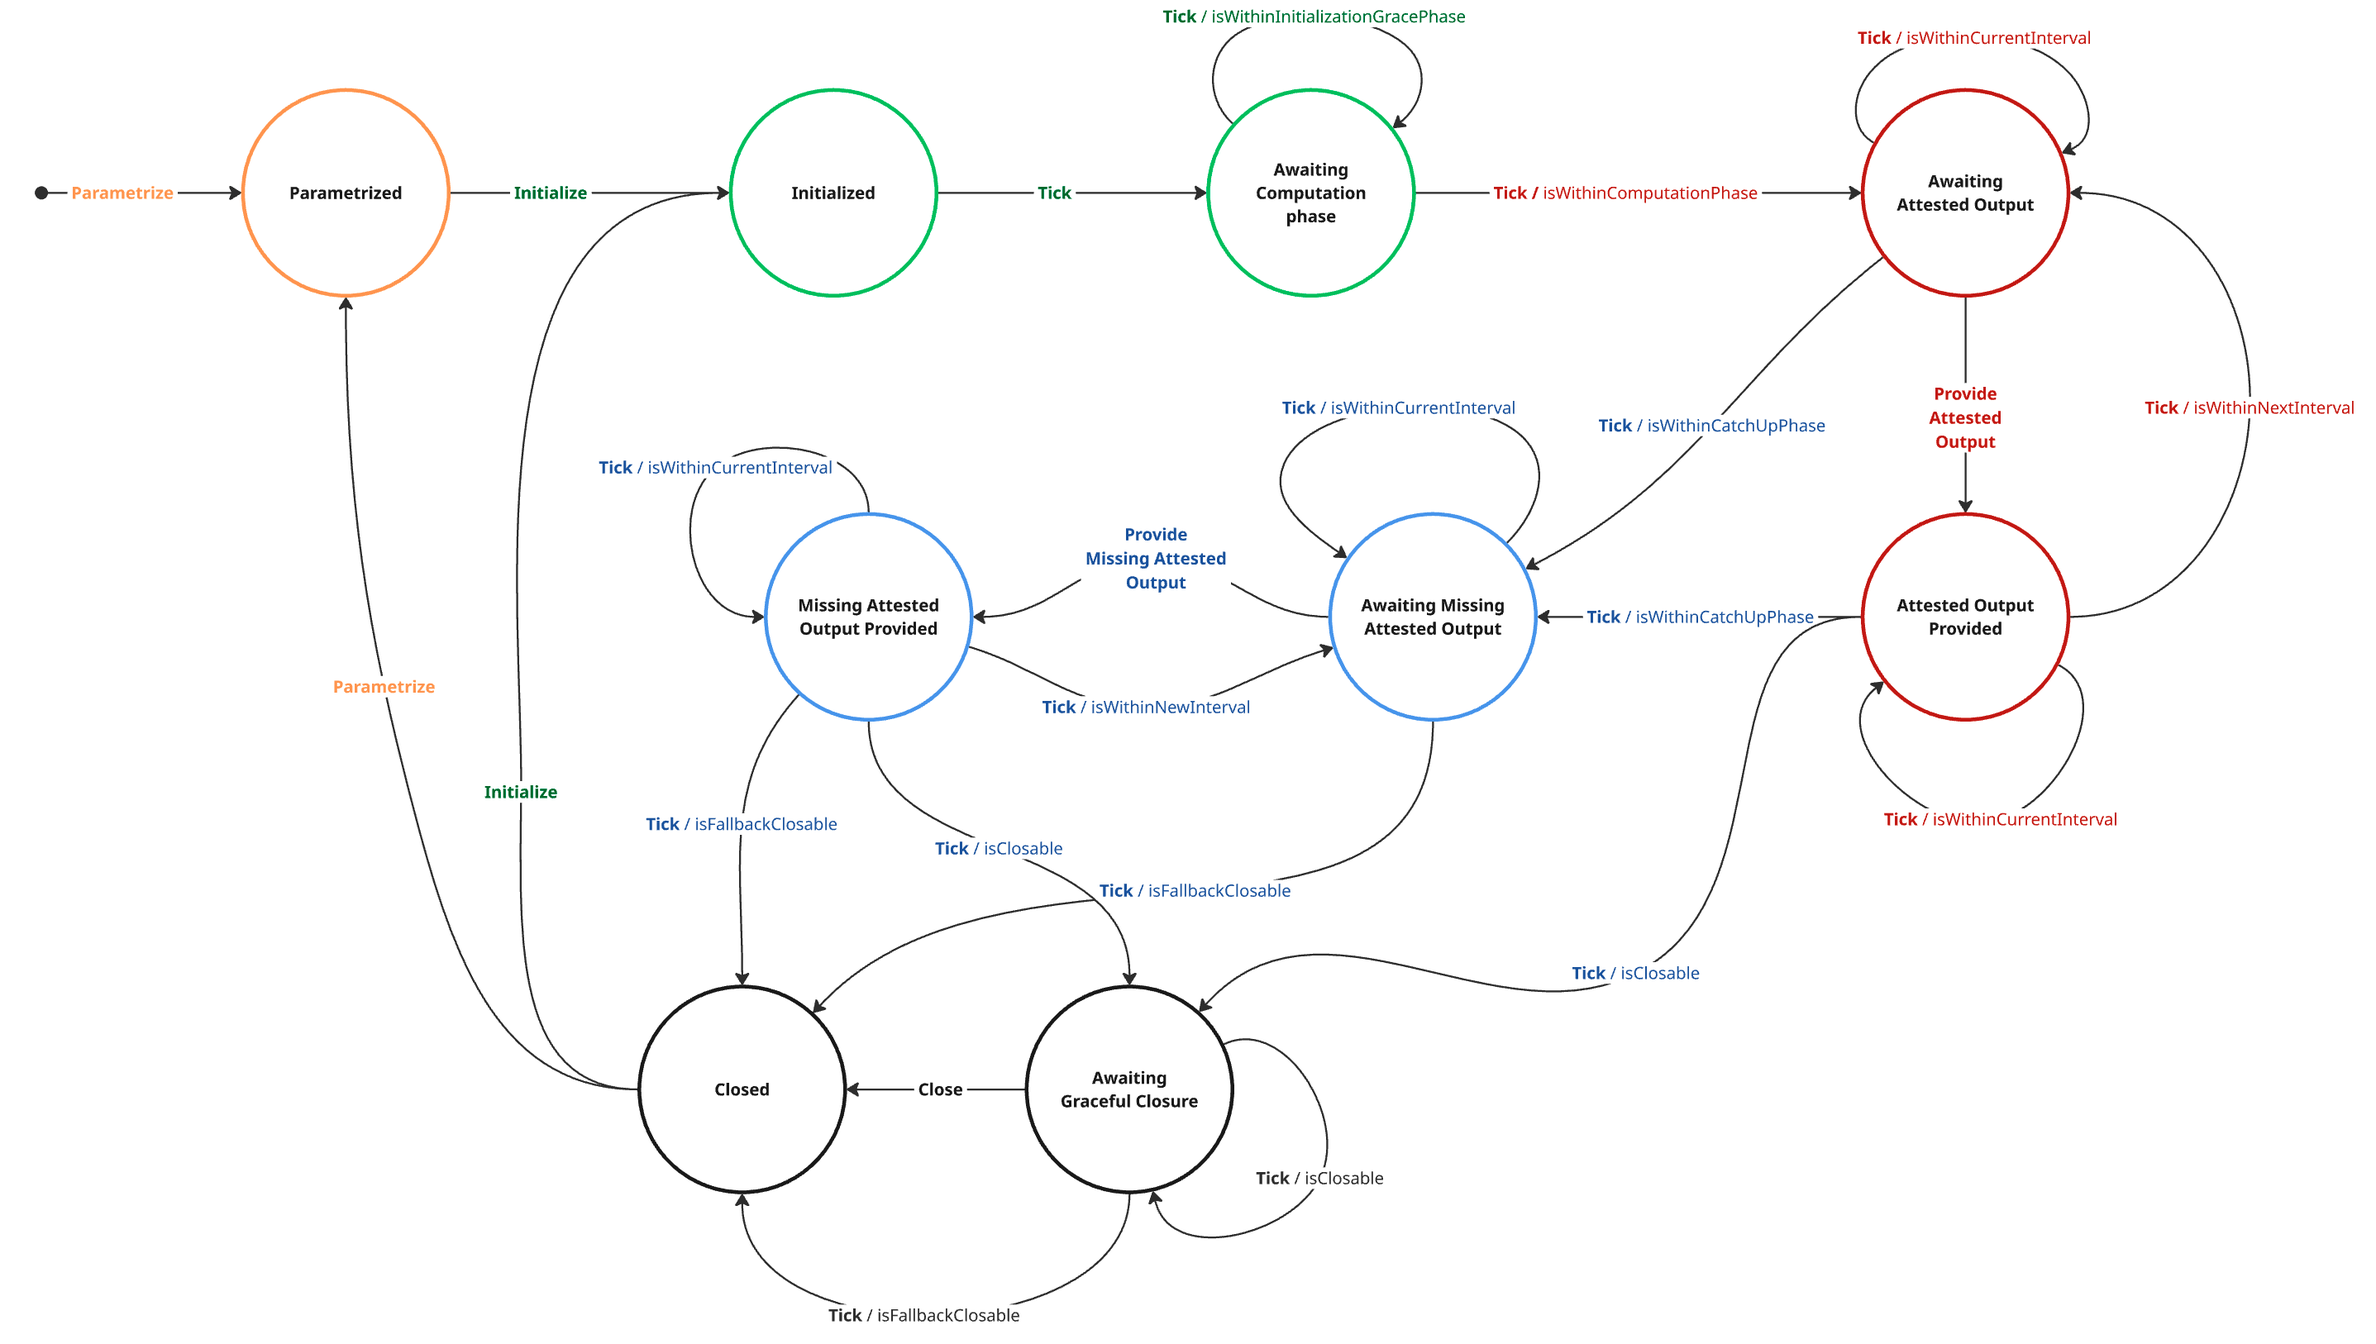
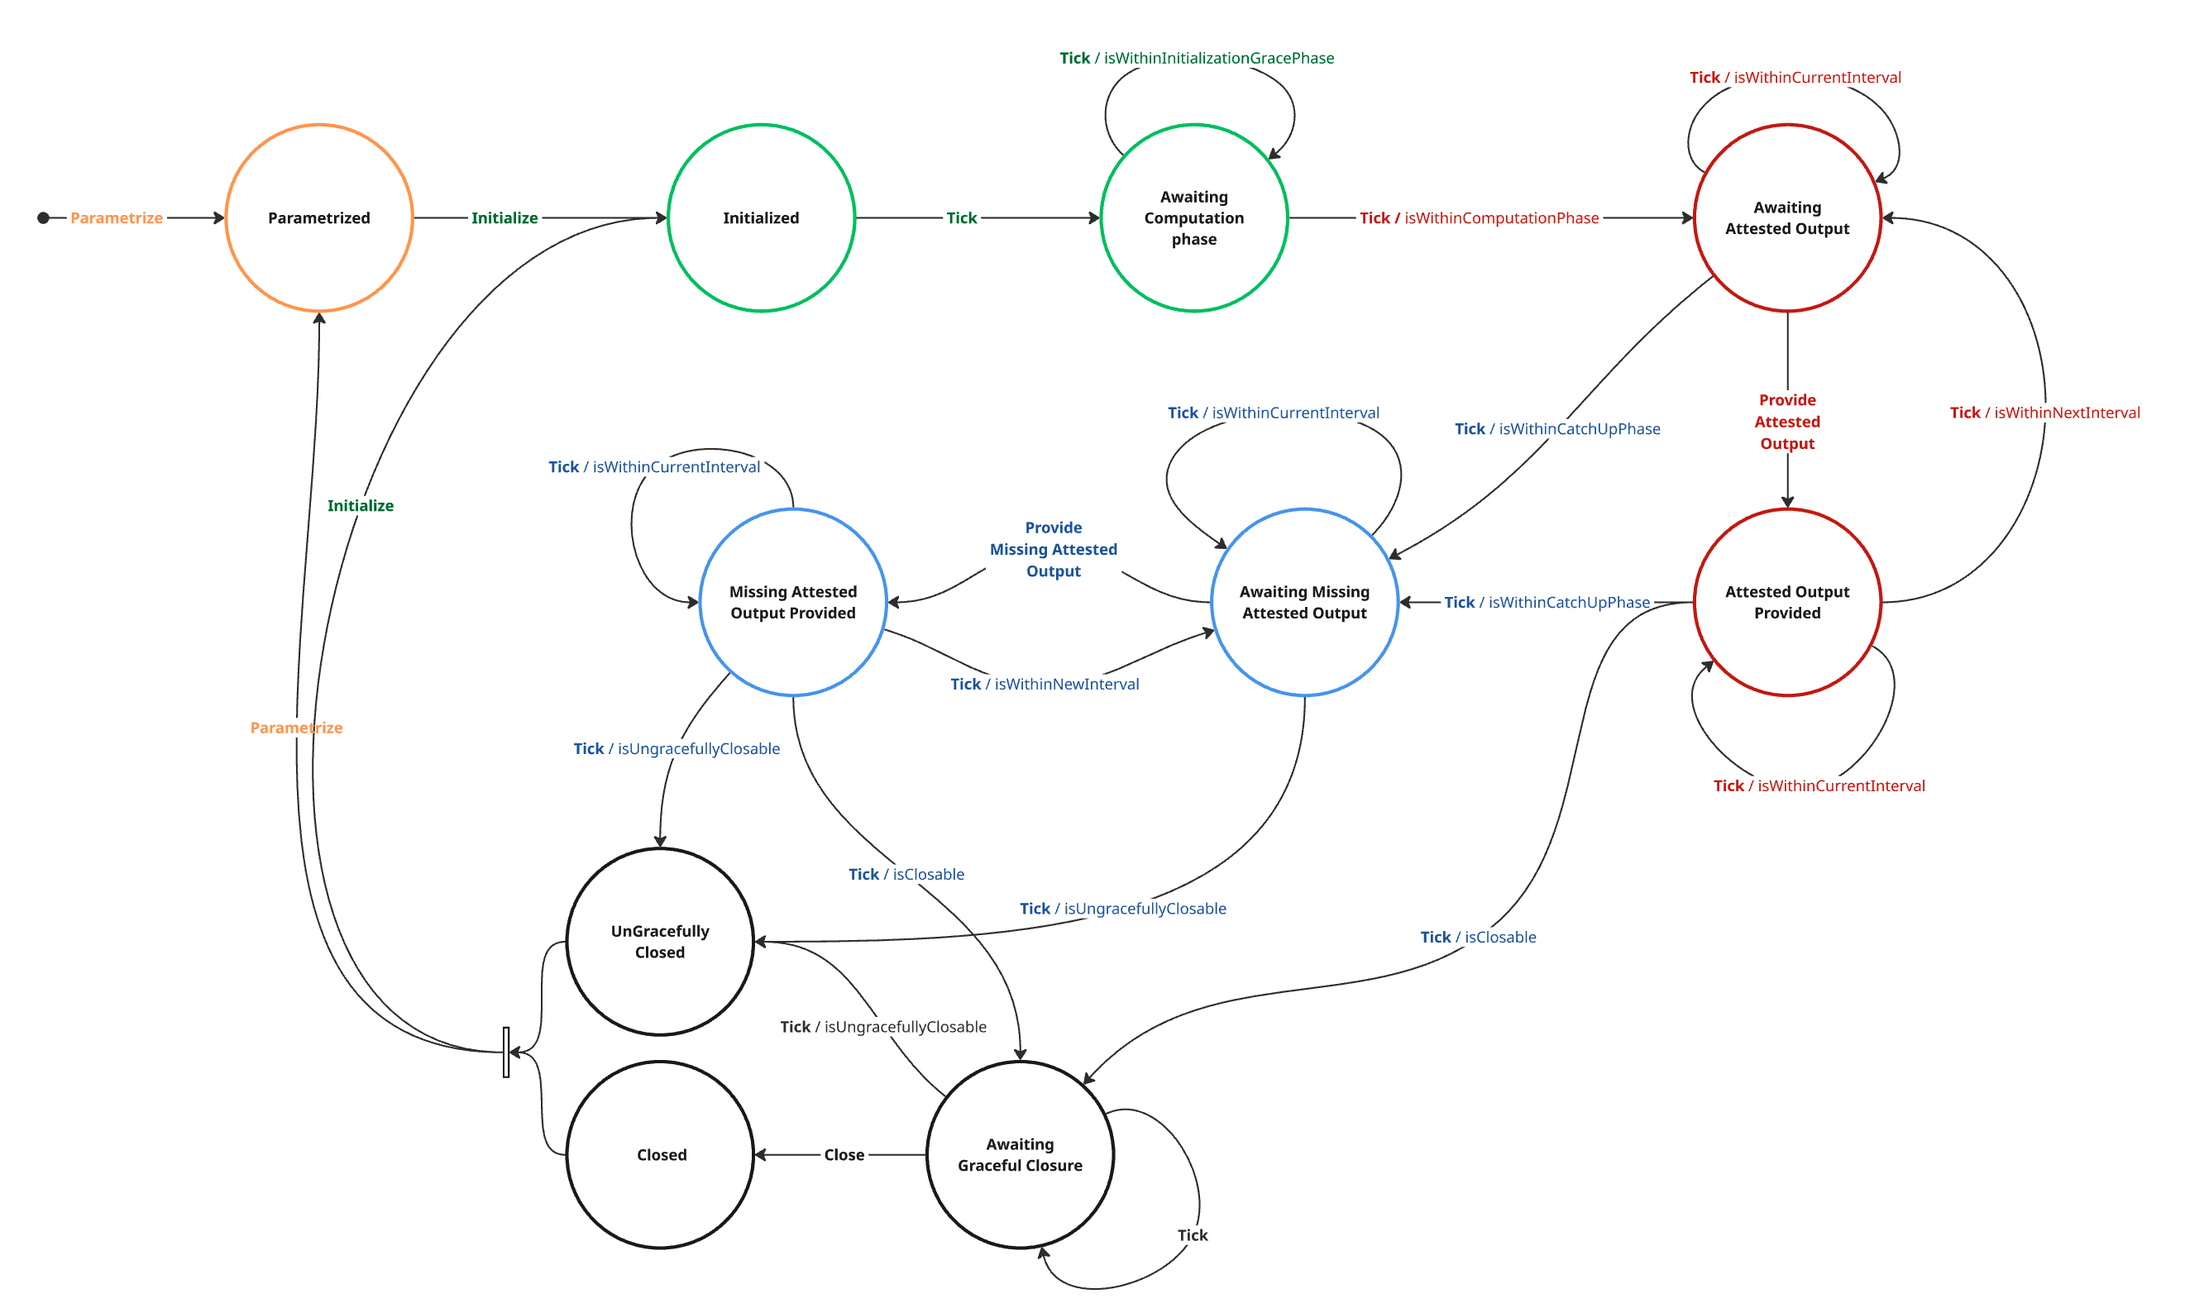
Ungraceful state section

diff --git a/CIP/Readme.md b/CIP/Readme.md
@@ -725,16 +725,16 @@ Once a missing attested output has been provided, the next slot may trigger a `t
 | `tick`               | $`\Phi.\text{Stream.State} \leftarrow \Phi.\text{tick}(\text{missingAttestedOutputProvidedState})`$ |
 |----------------------|---------------------------------------------------------------------------------------------------|
 | **Input Parameters** | <ul><li>$`\text{missingAttestedOutputProvidedState} \in \texttt{MissingAttestedOutputProvided}`$ — The current state after an attestation has been successfully provided.</li></ul> |
-| **Returned State**   | $`\begin{cases} \text{When } \texttt{isWithinCurrentInterval} &: \texttt{MissingAttestedOutputProvided} \{ \dots,\ \text{currentSlot++} \} \\\\ \text{When } \texttt{isWithinNextInterval} &: \texttt{AwaitingMissingAttestedOutput} \{ \dots,\ \text{currentSlot++} \} \\\\ \text{When } \texttt{isClosable} &: \texttt{AwaitingGracefulClosure} \{ \dots,\ \text{currentSlot++} \} \\\\ \text{When } \texttt{isFallbackClosable} &: {forceClose}(missingAttestedOutputProvidedState) \} \end{cases}`$ |
+| **Returned State**   | $`\begin{cases} \text{When } \texttt{isWithinCurrentInterval} &: \texttt{MissingAttestedOutputProvided} \{ \dots,\ \text{currentSlot++} \} \\\\ \text{When } \texttt{isWithinNextInterval} &: \texttt{AwaitingMissingAttestedOutput} \{ \dots,\ \text{currentSlot++} \} \\\\ \text{When } \texttt{isClosable} &: \texttt{AwaitingGracefulClosure} \{ \dots,\ \text{currentSlot++} \} \\\\ \text{When } \texttt{isUngracefullyClosable} &: \texttt{UngracefullyClosed} \{.., {pre-}\eta_e = {initialized.}{pre-}\eta_e \} \} \end{cases}`$ |
 
 Alternatively, when still waiting for an attestation and no block was produced, a `tick` may trigger a transition based on the current time. This command applies to the `AwaitingMissingAttestedOutput` state before any attestation has been submitted :
 
 | `tick`               | $`\Phi.\text{Stream.State} \leftarrow \Phi.\text{tick}(\text{awaitingMissingAttestedOutputState})`$ |
 |--------------------|---------------------------------------------------------------------------------------------------|
 | **Input Parameters** | <ul><li>$`\text{awaitingMissingAttestedOutputState} \in \texttt{AwaitingMissingAttestedOutput}`$ — Current state awaiting an attested output $`\phi_i`$ for interval $`i`$.</li><li>$`\phi_i = (y_i, \pi_i)`$ — Attested output and corresponding proof.</li></ul> |
-| **Returned State**   | $` \begin{cases} \text{When } \texttt{isWithinCurrentInterval} :\ \texttt{AwaitingMissingAttestedOutput}\ \{ \text{..} ,\ \text{currentSlot++} \} \\\\ \text{When } \texttt{isClosable} :\ \texttt{AwaitingGracefulClosure}\ \{ \text{..} ,\ \text{currentSlot++} \} \\\\ \text{When } \texttt{isFallbackClosable} :\ {forceClose}(awaitingMissingAttestedOutputState) \}\end{cases}`$ |
+| **Returned State**   | $` \begin{cases} \text{When } \texttt{isWithinCurrentInterval} :\ \texttt{AwaitingMissingAttestedOutput}\ \{ \text{..} ,\ \text{currentSlot++} \} \\\\ \text{When } \texttt{isClosable} :\ \texttt{AwaitingGracefulClosure}\ \{ \text{..} ,\ \text{currentSlot++} \} \\\\ \text{When } \texttt{isUngracefullyClosable} :\ \texttt{UngracefullyClosed} \{.., {pre-}\eta_e = {initialized.}{pre-}\eta_e \} \}\end{cases}`$ |
 
-`isFallbackClosable` indicates that the end of the lifecycle segment has been reached (i.e., `currentSlot++ == 0`) while some attested outputs are still missing. This condition triggers the `forceClose` process.
+`isUngracefullyClosable` indicates that the end of the lifecycle segment has been reached (i.e., `currentSlot++ == 0`), while some attested outputs are still missing. When this condition holds, the lifecycle is forcefully closed in an ungraceful manner.
 
 
 #### 3.2.6 ⬛ *Closure Phase*
@@ -750,7 +750,7 @@ In these cases, all attested outputs have been provided by the end of the catch-
 **Failure Scenario:**
 
 This occurs when the lifecycle segment reaches its end (i.e., the full $10 \cdot \frac{k}{f}$ slots), and despite the entire duration of the catch-up mechanism (up to interval 120), either some required attested outputs remain missing, or all outputs have been delivered but the final aggregation has not occurred.
-This scenario represents an extremely rare event—statistically far beyond 128-bit confidence—and reflects a severe disruption in which no blocks have been produced for over 36 hours. These edge cases are represented in the diagram by the transition `Tick / isFallbackClosable`.
+This scenario represents an extremely rare event—statistically far beyond 128-bit confidence—and reflects a severe disruption in which no blocks have been produced for over 36 hours. These edge cases are represented in the diagram by the transition `Tick / isUngracefullyClosable`.
 
 ##### 3.2.6.1. The States 
 
@@ -768,7 +768,7 @@ In this phase, we define two states:
 \right\}
 ```
 
-- `Closed`: This is the final state in the stream lifecycle. It signifies that the aggregated output has been computed and verified, and the final epoch randomness \$`\eta_e`\$ has been successfully derived—achieving the core objective of the protocol. This state is reached in response to either a `Close` command or a `Tick` / `isFallbackClosable` trigger :
+- `Closed`: This is a final state in the stream lifecycle. It signifies that the aggregated output has been computed and verified, and the final epoch randomness \$`\eta_e`\$ has been successfully derived—achieving the core objective of the protocol. This state is reached in response to either a `Close` command :
 
 ```math
 \Phi.\text{Stream.State} \in \texttt{Closed} : \left\{
@@ -777,6 +777,18 @@ In this phase, we define two states:
     &\text{attestedOutputs}  &&\in\ \left[(y, \pi)\right]^{82}, \\
     &\text{aggregatedOutput} &&\in\ (x, y, \pi), \\
     &\eta_e                  &&\in\ \{0,1\}^{256} 
+  \end{aligned}
+\right\}
+```
+
+- `UngracefullyClosed`: This is a terminal state in the stream lifecycle. It indicates that either not all expected attested outputs were provided, or the aggregated output could not be computed. As a result, $`{pre-}\eta_e`$ is returned as the final value of $`\eta_e`$. Statistically, this state is highly unlikely to occur, but it is explicitly handled for completeness and structural consistency of the state machine. The transition to this state is triggered by `Tick` in combination with the `isUngracefullyClosable` condition.
+
+```math
+\Phi.\text{Stream.State} \in \texttt{UngracefullyClosed} : \left\{
+  \begin{aligned}
+    &\text{initialized}      &&\in\ \texttt{Initialized}, \\
+    &\text{attestedOutputs} &&\in\ \left[\texttt{Maybe}\ (y, \pi)\right]^{82} \\
+    &{pre-}\eta_e                  &&\in\ \{0,1\}^{256} 
   \end{aligned}
 \right\}
 ```
@@ -803,28 +815,24 @@ These values complete the stream and trigger the transition to the `Closed` stat
 
 The `tick` command handles time progression within the `AwaitingGracefulClosure` state:
 
--  **`isFallbackClosable`** is true when the stream reaches the end of its lifecycle segment (i.e., $`\texttt{currentSlot} + 1 \equiv 0 \pmod{T}`$), and some attested outputs are still missing. In this case, the system triggers a `forceClose`.
+-  **`isUngracefullyClosable`** is true when the stream reaches the end of its lifecycle segment (i.e., \$`\texttt{currentSlot} + 1 \equiv 0 \pmod{T}`\$) and some attested outputs are still missing. When this condition holds, the system transitions to the `UngracefullyClosed` state.
+
 -  **Otherwise**, the command simply increments the `currentSlot` field to reflect time advancement.
 
 
 | `tick`               | $`\Phi.\text{Stream.State} \leftarrow \Phi.\text{tick}(\text{awaitingGracefulClosureState})`$ |
 |--------------------|---------------------------------------------------------------------------------------------------|
 | **Input Parameters** | <ul><li>$`\text{awaitingGracefulClosureState} \in \texttt{AwaitingMissingAttestedOutput}`$ — State indicating readiness for closure.</li></ul> |
-| **Returned State**   | $`\begin{cases} \text{When } \texttt{isFallbackClosable} :\ \texttt{forceClose}(\text{awaitingGracefulClosureState}) \\\\ \text{Otherwise} :\ \texttt{AwaitingGracefulClosure} \{\, \ldots,\, \texttt{currentSlot} + 1 \,\} \end{cases}`$ |
+| **Returned State**   | $`\begin{cases} \text{When } \texttt{isUngracefullyClosable} :\ \texttt{UngracefullyClosed} \{.., {pre-}\eta_e = {initialized.}{pre-}\eta_e \} \\\\ \text{Otherwise} :\ \texttt{AwaitingGracefulClosure} \{\, \ldots,\, \texttt{currentSlot} + 1 \,\} \end{cases}`$ |
 
-`isFallbackClosable` indicates that the end of the lifecycle segment has been reached (i.e., `currentSlot++ == 0`) while some attested outputs are still missing. This condition triggers the `forceClose` process. Otherwise we are just update the current slot field
+`isUngracefullyClosable` indicates that the end of the lifecycle segment has been reached (i.e., `currentSlot++ == 0`), while some attested outputs are still missing. When this condition holds, the lifecycle is forcefully closed in an ungraceful manner. Otherwise we are just update the current slot field
 
-##### 3.2.6.4. The Failure Scenario : The Force Close Process 
+##### 3.2.6.4. The Failure Scenario: Ungraceful Closure
 
+If the protocol reaches the end of its lifecycle, or it becomes evident that too many consecutive blockless intervals have occurred—such that a valid $`\eta_e`$ can no longer be derived—the `Tick` signal triggers the `isUngracefullyClosable` condition. This causes a transition to the terminal state `UngracefullyClosed`, in which the precomputed value $`{pre-}\eta_e`$ is adopted as the official $`\eta_e`$.
 
-**TODO: Handling $`\eta_e`$ in Statistically Impossible Scenarios**
+While this state is statistically unexpected, it is explicitly defined to ensure completeness and structural consistency within the state machine.
 
-How should we ensure the production of $`\eta_e`$ even in edge cases where the expected number of attested outputs cannot be reached due to failure?
-
-A simple fallback is to set $`\eta_e = \text{pre-}\eta_e`$.
-Alternatively, the system could locally compute all missing attested outputs. This approach introduces latency in the state machine but guarantees progress and correctness.
-
-This topic requires further discussion in an upcoming meeting.
 
 ### 4. Agda Mechanization
 
@@ -1131,7 +1139,6 @@ The **graph below** presents the **logarithmic cost** (in **USD**) of executing 
 </div>
 
 ✏ **Note**: The Python script used to generate this graph is available here ➡ [**scenario\_cost\_praos\_vs\_phalanx.py**](./graph/scenario_cost_praos_vs_phalanx.py)
-
 
 ###### **Interpretation of the Graph**
 
@@ -1564,6 +1571,7 @@ To fulfill the above criteria, the following steps are planned:
 
 ## References
 
+- [Ouroboros Randomness Generation Sub-Protocol – The Coin-Flipping Problem](../CPS/CPD/README.md)
 - [Cardano Disaster Recovery Plan](https://iohk.io/en/research/library/papers/cardano-disaster-recovery-plan)
 - [Baigneres, Thomas, et al. "Trap Me If You Can--Million Dollar Curve." Cryptology ePrint Archive (2015).](https://eprint.iacr.org/2015/1249.pdf)
 - [Lenstra, Arjen K., et al. "The number field sieve." Proceedings of the twenty-second annual ACM symposium on Theory of computing. 1990.](https://dl.acm.org/doi/pdf/10.1145/100216.100295)
@@ -1607,7 +1615,7 @@ To fulfill the above criteria, the following steps are planned:
 <!-- The CIP must be explicitly licensed under acceptable copyright terms.  Uncomment the one you wish to use (delete the other one) and ensure it matches the License field in the header: -->
 Todo
 <!-- This CIP is licensed under [CC-BY-4.0](https://creativecommons.org/licenses/by/4.0/legalcode). -->
-<!-- This CIP is licensed under [Apache-2.0](http://www.apache.org/licenses/LICENSE-2.0). -->
+This CIP is licensed under [Apache-2.0](http://www.apache.org/licenses/LICENSE-2.0).
 
 
 
@@ -1617,14 +1625,6 @@ Todo
 Below is under progress 
 -------
 
-
-3. Feasible values for Phalanx protocol parameters 
-    3.1. Protocol Parameters
-    3.2. Recommended Crypto Lib 
-    3.3. Security Gains Compared to Praos
-4. Faster Settlement under Phalanx
-5. Use Cases
-7. Resource Requirements
 
 
 ### 4. The Φ Cryptographic Primitive
@@ -1744,36 +1744,3 @@ N.B. For future work, it could be interesting to snarkify the accumulators, thei
 Table 1. VDF benchmarks, means and standard deviation, perfomed on a discriminant $\Delta$ of different sizes and with a range of iterations on one core of Intel(R) Core(TM) i9-14900HX (2.2 GHz base frequency, 24 cores, 32 threads).
 </center>
 
-### 5. Recommended Parameterization
-
-**(To be completed)**
-
-We currently identify the following key parameters:
-
-- $\Phi_{\text{power}}$
-- $\Phi_{\text{margin}}$
-- $R$
-- (To be added: parameters related to the cryptographic primitive)
-
-
-
-The CPD analysis in [Section 3.5 - Scenarios](../CPS/CPD/README.md#35-scenarios) quantifies this vulnerability across four scenarios (**Ant Glance**, **Ant Patrol**, **Owl Stare**, and **Owl Survey**) highlighting the ranges of $\rho$ where attacks are feasible. The table below summarizes these ranges, showing the intervals where grinding attacks transition from trivial to infeasible:
-
-| **Feasibility Category**                  | **🔵 Ant Glance**   | **🟠 Ant Patrol**   | **🟢 Owl Stare**   | **🔴 Owl Survey**   |
-|--------------------------------------------|---------------------|---------------------|--------------------|--------------------|
-| **🟢 🌱 Trivial for Any Adversary**        | $0 \to 39.8$        | $0 \to 32.9$        | $0 \to 31.6$       | $0 \to 31.1$       |
-| **🟡 💰 Feasible with Standard Resources** | $39.8 \to 46.4$     | $32.9 \to 39.5$     | $31.6 \to 38.3$    | $31.1 \to 37.8$    |
-| **🟠 🏭 Large-Scale Infrastructure Required** | $46.4 \to 56.4$  | $39.5 \to 49.5$     | $38.2 \to 48.2$    | $37.8 \to 47.7$    |
-| **🔴 🚫 Borderline Infeasible**            | $56.4 \to 66.3$     | $49.5 \to 59.5$     | $48.2 \to 58.2$    | $47.7 \to 57.7$    |
-| **🔴 🚫 Infeasible**                      | $66.3 \to 256$      | $59.5 \to 256$      | $58.2 \to 256$     | $57.7 \to 256$     |
-
-This vulnerability is visually depicted in the graph below, which plots the logarithmic cost (in USD) of grinding attacks against grinding depth ($\rho$) for each scenario. The shaded feasibility layers indicate the economic thresholds where attacks become **trivial**, **feasible**, **possible**, **borderline infeasible**, or **infeasible**. The consistent gap of $\Delta \log_{10}(\text{Cost (USD)}) \approx 2.6$ between the least (Ant Glance) and most (Owl Survey) resource-intensive scenarios highlights how 88evaluation complexity** ($T_{\text{eval}}$) and **observation scope** ($w_T$) significantly amplify attack costs :
-
-<div align="center">
-<img src="./image/grinding_depth_scenarios_cost_with_feasibility_layers_gradient.png" alt="Grinding Depth Scenarios with Feasibility Thresholds"/>
-</div>
-
-These findings indicate that, under current protocol parameters, grinding attacks are computationally viable at lower $\rho$ values for adversaries with significant resources. However, as highlighted in [CPD Section 3.2](../CPS/CPD/README.md#32-entry-ticket-acquiring-stake-to-play-the-lottery), executing such attacks requires a substantial upfront investment—acquiring 20% of the total stake, equivalent to over 4.36 billion ADA as of March 1, 2025—and the ability to operate covertly to avoid detection. Publicly observable grinding attempts expose adversarial stake pool operators (SPOs) to severe economic and social consequences, such as loss of trust, delegator withdrawals, or protocol-level countermeasures, which could devalue their stake and undermine their efforts. Despite these barriers, the potential for well-funded adversaries to bias randomness remains a threat to Cardano’s decentralized ethos, as it could skew block production and transaction settlement in their favor.
-
-TODO : Rework this section, it will be a summary of what we recommend and the gain we have if we put this in place, I would be ok to add results of settlement times of the previous overly optimistic algorithm for settlement times...
-- Explain Recommendation of 12h and gain of 2^ 
